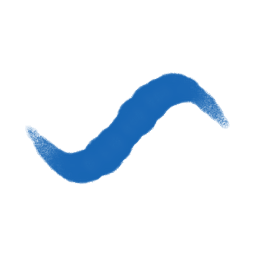
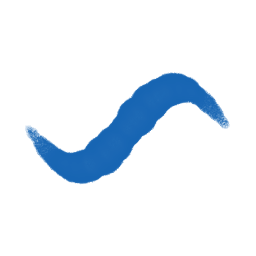
fix(Pincéis J3 tintas): o Dip Pen a pigmento 300 (o vale da Borda da foto dippen) e a Orla do Ink Brush sai do portão da mídia
O pigmento 150 deixava a ponta leve da rampa clara mas a borda saía do vale da foto dippen (Borda 0,84; Rebelle
0,91, controlo 1,04): 300 dá 0,88 e a rampa continua clara (sonda_as_metricas_das_variantes). A Orla 5 da foto
inkbrush (5 gestos) era a franja da forma de cerdas; a bateria do EXAME do mesmo preset (3 cenas) dá os lados nítidos
(perfil ✓) e o revisor cego leu a franja como salpicado — a bateria manda. cada_preset_parece_a_sua_midia e
cada_tinta_tem_a_sua_identidade verdes.

diff --git a/crates/ph2d-tool-painter/tests/it/familias/tintas.rs b/crates/ph2d-tool-painter/tests/it/familias/tintas.rs
@@ -23,7 +23,7 @@ pub const WET: &[Receita] = &[
         pickup: 1.0,
         gate: 0.0,
         evaporation: 3.0,
-        // A orla do nanquim (o portão da mídia: a foto `inkbrush` tem-na; sem ela o Orla caía a 1,0).
+        // A beira que escurece um pouco (o revisor cego viu-a nos verticais do Rebelle).
         edge: 60.0,
         tilt: DIREITA,
         bristle_size: 2.0,
@@ -56,8 +56,9 @@ pub const WET: &[Receita] = &[
         nome: "Dip Pen",
         water: 0.3,
         opacity: 1.0,
-        // 150 e não 1100: o pigmento a mais SATURA a cápsula e a ponta leve da rampa ficava opaca (a do Rebelle é clara).
-        pigment: 150.0,
+        // 300 e não 1100: o pigmento a mais SATURA a cápsula e a ponta leve da rampa ficava opaca (a do Rebelle é clara);
+        // abaixo de ~300 a borda clareia e sai do vale da foto `dippen` (Borda 0,84 a 150, 0,88 a 300; Rebelle 0,91).
+        pigment: 300.0,
         pickup: 10.0,
         gate: 0.0,
         evaporation: 1.0,
@@ -265,7 +266,10 @@ pub const MEIOS: &[ReceitaMeio] = &[
 pub const MIDIAS: &[Midia] = &[
     Midia { preset: "Ink Bullet", foto: "ink", raio: 21.0, metricas: &[(Cobertura, 0.862), (Textura, 0.395), (Cruzamento, 0.117)] },
     Midia { preset: "Dip Pen", foto: "dippen", raio: 19.0, metricas: &[(Cobertura, 0.856), (Textura, 1.433), (Borda, 0.910), (Cruzamento, 0.223)] },
-    Midia { preset: "Ink Brush", foto: "inkbrush", raio: 20.0, metricas: &[(Cobertura, 0.722), (Textura, 1.266), (Borda, 0.793), (Orla, 5.0), (Cruzamento, 0.239)] },
+    // ⚠ Sem a Orla (5 px na foto `inkbrush` de 5 gestos): era a franja da forma de CERDAS, que a bateria do EXAME
+    // (Rebelle `Brush/Brush`, três cenas) desmente — o perfil do recto dela casa com os lados nítidos (régua: perfil ✓
+    // nas 3 cenas) e o revisor cego leu a franja como «granulado/salpicado». `exames/tintas.md`.
+    Midia { preset: "Ink Brush", foto: "inkbrush", raio: 20.0, metricas: &[(Cobertura, 0.722), (Textura, 1.266), (Borda, 0.793), (Cruzamento, 0.239)] },
 ];
 
 /// As medidas de identidade de uma tinta na bateria do EXAME (`ferramentas/bateria.json`, a foto A molhada), à
